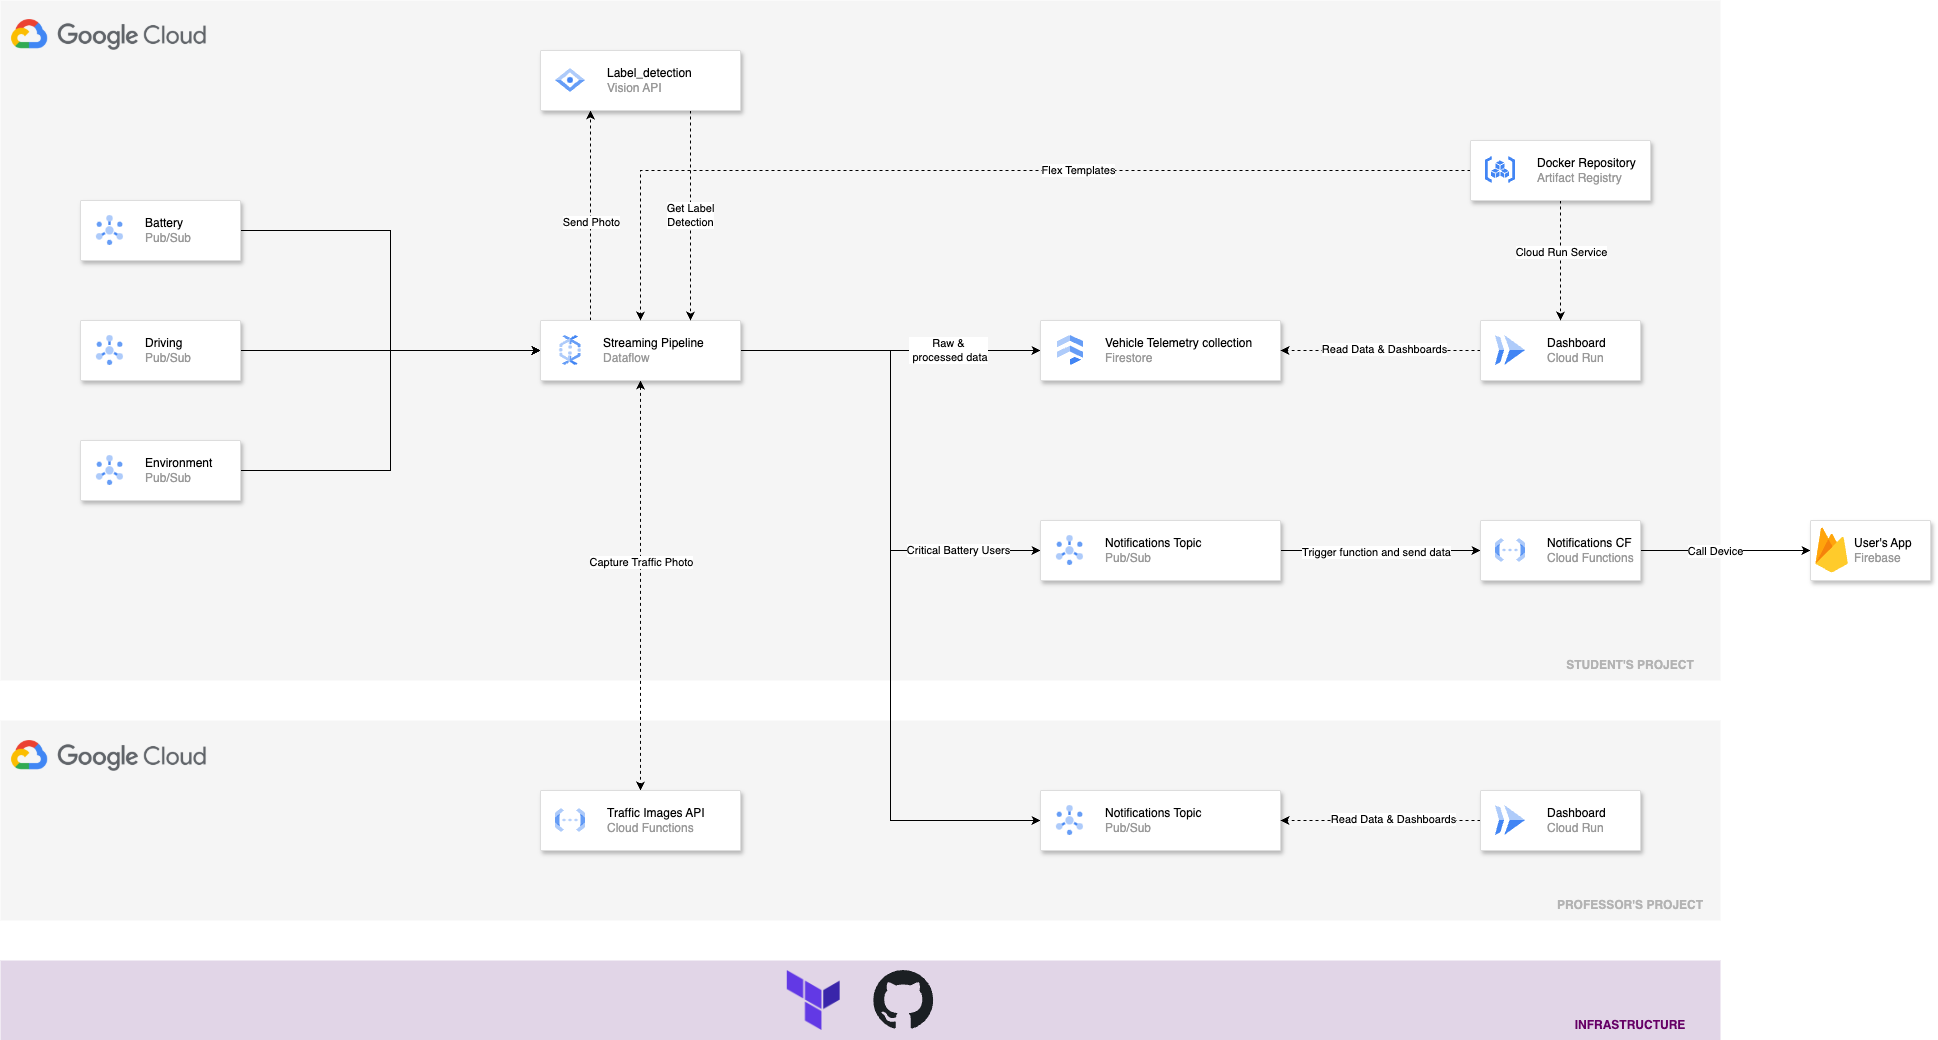
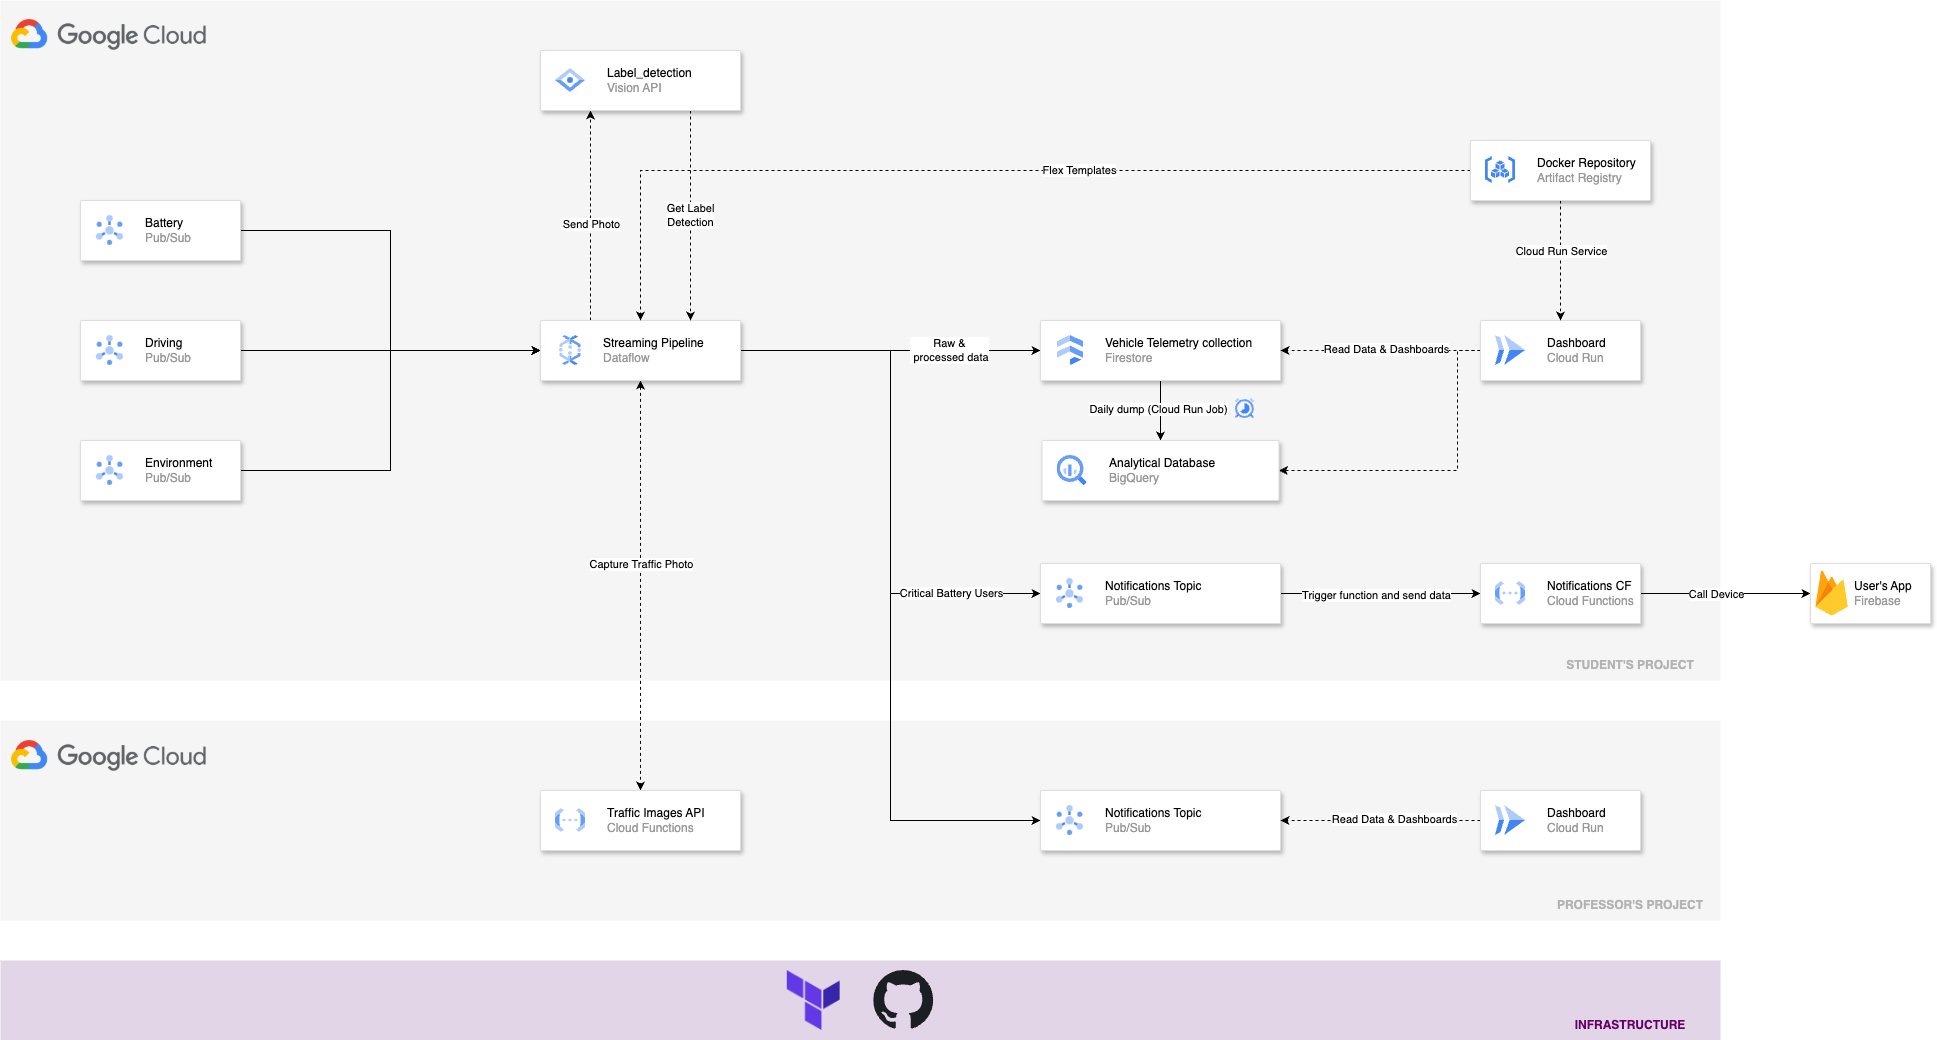
[CHANGED] Upload new resources

diff --git a/02_Code/02_CloudRun/01_Job/main.py b/02_Code/02_CloudRun/01_Job/main.py
@@ -1,0 +1,104 @@
+""" 
+Script: Cloud Run Job
+
+Description: Cloud Run Job to execute data dumps from Firestore to BigQuery.
+
+EDEM. Master Big Data & Cloud 2024/2025
+Professor: Javi Briones
+"""
+
+""" Import Libraries """
+
+from google.cloud import firestore
+from google.cloud import bigquery
+import logging
+import json
+import os
+
+# Configure clients
+firestore_client = firestore.Client()
+bigquery_client = bigquery.Client()
+
+# Environment Variables
+FIRESTORE_COLLECTION = os.getenv('FIRESTORE_COLLECTION')
+BIGQUERY_DATASET = os.getenv('BIGQUERY_DATASET')
+BIGQUERY_TABLE = os.getenv('BIGQUERY_TABLE')
+
+""" Code """
+
+def get_all_documents_with_subcollections(collection_name: str):
+
+    """
+    Retrieves all documents from a Firestore collection along with their nested subcollections.
+    
+    Parameters:
+        collection_name (str): The name of the Firestore collection to retrieve documents from.
+
+    Returns:
+        list: A list of dictionaries containing document data including vehicle_id, event name,
+            timestamp, and payload (JSON string format).
+    """
+
+    collection_ref = firestore_client.collection(collection_name)
+    documents = collection_ref.list_documents()
+    
+    data = []
+
+    for doc in documents:
+        vehicle_id = doc.id  
+
+        # Retrieve subcollections
+        subcollections = doc.collections()
+        for subcollection in subcollections:
+            subcollection_name = subcollection.id 
+            sub_docs = subcollection.stream()
+
+            for sub_doc in sub_docs:
+                doc_dict = {} 
+                sub_doc_dict = sub_doc.to_dict()
+
+                # Build the output format
+                doc_dict["vehicle_id"] = vehicle_id
+                doc_dict["event"] = subcollection_name
+                doc_dict["timestamp"] = sub_doc.id
+                doc_dict["payload"] = json.dumps(sub_doc_dict) 
+
+                # Add row to dataset
+                data.append(doc_dict)
+    
+    return data
+
+def upload_to_bigquery(data: list):
+
+    """
+    Uploads the data to BigQuery in JSON format.
+    
+    Parameters:
+        data (list): A list of dictionaries containing the data to be uploaded to BigQuery.
+    
+    Returns:
+        None
+    """
+
+    table_ref = bigquery_client.dataset(BIGQUERY_DATASET).table(BIGQUERY_TABLE)
+
+    errors = bigquery_client.insert_rows_json(table_ref, data)
+
+    if errors:
+        logging.error(" Error inserting into BigQuery:", errors)
+    else:
+        logging.info("Data successfully inserted into BigQuery.")
+
+if __name__ == "__main__":
+
+    # Set Logs
+    logging.getLogger().setLevel(logging.INFO)
+    
+    # Retrieve data from Firestore
+    documents = get_all_documents_with_subcollections(FIRESTORE_COLLECTION)
+
+    if documents:
+        # Upload to BigQuery
+        upload_to_bigquery(documents)
+    else:
+        logging.warning("No data available to upload to BigQuery.")

diff --git a/02_Code/edem_data_generator.py b/02_Code/edem_data_generator.py
@@ -95,7 +95,7 @@ def generate_battery_data(
         data.append({
             "vehicle_id": vehicle_id,
             "timestamp": timestamp.strftime("%Y-%m-%dT%H:%M:%SZ"),
-            "battery_level": round(battery_level, 2),
+            "battery_level": round(battery_level),
             "event_type": event_type
         })
 

diff --git a/02_Code/edem_dataflow_pipeline.py b/02_Code/edem_dataflow_pipeline.py
@@ -47,7 +47,7 @@ beam.options.pipeline_options.PipelineOptions.allow_non_parallel_instruction_out
 DataflowRunner.__test__ = False
 
 """ Code: Helpful functions """
-def ParsePubSubMessage(message):
+def ParsePubSubMessage(message:):
 
     """
     Decodes messages from Pub/Sub for further transformation.

diff --git a/01_Notebooks/streaming_generator.py b/01_Notebooks/streaming_generator.py
@@ -75,7 +75,7 @@ def run_generator(project_id: str, topic_name: str):
 
         pubsub_class.publishMessages({"temp": temp})
 
-        time.sleep(10)
+        time.sleep(5)
 
 if __name__ == "__main__":
     

diff --git a/README.md b/README.md
@@ -55,7 +55,7 @@ gcloud services enable logging.googleapis.com
 gcloud services enable artifactregistry.googleapis.com
 gcloud services enable eventarc.googleapis.com
 gcloud services enable firestore.googleapis.com
-
+gcloud services enable secretmanager.googleapis.com
 ```
 
 - Create a Python environment using Anaconda, selecting **Python 3.10 or 3.11** as the version.
@@ -86,9 +86,9 @@ Go to the [Google Cloud Firestore Console](https://console.cloud.google.com/fire
 
 ## Google Cloud Artifact Registry
 
-Go to the [Google Cloud Firestore Console](https://console.cloud.google.com/firestore) and create a database **(default) in native mode**. This will allow us to store all the data sent by the different systems.
+Go back to the terminal and navigate to the [Cloud Run](/02_Code/02_CloudRun/00_Service/) folder. Now, we are going to deploy a Cloud Run service with the Docker image of Grafana & a Cloud Run Job for dumping data from Firestore to BigQuery on a daily basis.
 
-Go back to the terminal and navigate to the [Cloud Run](02_Code/04_CloudRun) folder. Now, we are going to deploy a Cloud Run service with the Docker image of Grafana.
+#### Cloud Run Service
 
 - Build the Docker Image.
 
@@ -110,7 +110,43 @@ docker tag grafana-cloud-run <REGION_ID>-docker.pkg.dev/<PROJECT_ID>/<ARTIFACT_R
 docker push <REGION_ID>-docker.pkg.dev/<PROJECT_ID>/<ARTIFACT_REPOSITORY>/grafana-cloud-run:<TAG>
 ```
 
+#### Cloud Run Job
+
+Repeat the same commands executed above, but now specifying a [different image](/02_Code/02_CloudRun/01_Job/) name for the Cloud Run job and linux/amd64.
+
+- Build the Docker Image.
+
+```
+docker build --platform linux/amd64 -t run-job .
+```
+
+- Tag the Docker Image.
+
+```
+docker tag run-job <REGION_ID>-docker.pkg.dev/<PROJECT_ID>/<ARTIFACT_REPOSITORY>/run-job:<TAG>
+```
+
+- Push the image to Artifact Registry.
+
+```
+docker push <REGION_ID>-docker.pkg.dev/<PROJECT_ID>/<ARTIFACT_REPOSITORY>/run-job:<TAG>
+```
+
+## BigQuery
+
+- Run the following command from the terminal or Cloud Shell to create a table in BigQuery **with the provided schema** in this [folder](/02_Code/03_BigQuery).
+
+```
+cd /02_Code/03_BigQuery
+
+bq mk --table <YOUR_PROJECT_ID>:<YOUR_DATASET_NAME>.<YOUR_TABLE_NAME> schema.json
+```
+
+- Verify that the table has been created successfully.
+
 ## Google Cloud Run
+
+#### A. Cloud Run Service
 
 Go to the [Cloud Run Console](https://console.cloud.google.com/run) and click on **Create Service**:
 
@@ -124,7 +160,22 @@ Go to the [Cloud Run Console](https://console.cloud.google.com/run) and click on
     - Click on **Data Sources**.
     - Install the **Firestore** plugin.
     - Enter the required connection details.
-    - Once the connection is established, navigate to the Explore or Dashboard tab to create charts that effectively represent business metrics using [FireSQL](https://firebaseopensource.com/projects/jsayol/firesql/).
+    - Once the connection is established, navigate to the Explore or Dashboard tab to create charts that effectively represent business metrics using [FireQL](https://github.com/pgollangi/FireQL).
+
+#### B. Cloud Run Job
+The purpose of this Cloud Run Job is to execute a data dump from Firestore to BigQuery once a day, allowing the analytics team to analyze the data.
+
+- Once the docker image is already pushed to Artifact Registry, go to the Cloud Run console (https://console.cloud.google.com/run)
+- Select **Deploy Container** and click on **Job**.
+- Choose the **previously built Docker image**, as well as the region.
+- Set the following environment variables in the *Variables & Secrets* tab:
+
+```
+FIRESTORE_COLLECTION = <YOUR_FIRESTORE_COLLECTION>
+BIGQUERY_DATASET = <YOUR_BIGQUERY_DATASET>
+BIGQUERY_TABLE = <YOUR_BIGQUERY_TABLE>
+```
+- Click on **Create**.
 
 ## Google Cloud Run Functions
 
@@ -140,10 +191,13 @@ Go to the [Cloud Run Function Console](https://console.cloud.google.com/function
 
 - Click on Next.
 
-- Select **Python 3.12** as Runtime.
+- Upload the ZIP file located in the [folder](/02_Code/01_CloudFunctions/)
+
+- Select **Python 3.10** as Runtime.
+
+- Type **get_pubsub_message** as Entry point.
 
 - **Deploy** your Function. We will simply simulate the output by handling the push notification process since we do not have a developer app to link our architecture to Firebase.
-
 
 ## Run Dataflow
 
@@ -215,7 +269,6 @@ Results for image:
   Label: Travel, Score: 0.7682755589485168
 ```
 
-
 ## Dataflow Flex Templates
 
 - Go to the [Artifact Registry Console](https://console.cloud.google.com/artifacts) and create a repository with the default values. Alternativaly, it might be created using cli:
@@ -247,6 +300,29 @@ gcloud dataflow flex-template run "<YOUR_DATAFLOW_JOB_NAME>" \
  --region=<YOUR_REGION_ID> \
  --max-workers=1
 ```
+
+## CI/CD: Cloud Build
+
+- Go to the [Cloud Build console](https://console.cloud.google.com/cloud-build)
+- In the left panel, select *Repositories*.
+- In the *2nd Gen* tab, click on **Link Repository**.
+- In the *Connection* dropdown, click on **Create host connection** and link your GitHub account:
+    - Select only the repositories associated with your account that you want to link.
+    - Click install.
+    - Verify that the connection is created successfully.
+
+- In the left panel, select *Triggers*.
+    - Give it a name and select a specific region.
+    - The event will be **Push to a branch**.
+    - In *Repository*, connect to a new repository and s**elect the repository previously chosen in the connection**.
+    - Click on **Connect**.
+    - Select the **branch** this trigger will listen for changes on.
+    - As configuration, select **Cloud Build configuration file (yaml or json)**.
+    - For location, add the path to your [build.yml](/02_Code/04_CICD/build.yml) file. Alternatively, you can select inline and copy and paste the content of the file.
+    - Select a service account with sufficient permissions to execute a Dataflow job (*If you do not specify a service account, it will use the default Compute Engine service account*)
+    - Click on **Create**.
+
+- Once the trigger is created, each new push to the specified branch will trigger the actions specified in the build file, following the steps we set.
 
 ## Clean Up
 
@@ -287,6 +363,12 @@ gcloud functions delete <YOUR_CLOUD_FUNCTION_NAME> --region <YOUR_REGION_ID>
 gcloud run services delete <YOUR_CLOUR_RUN_SERVICE_NAME> --platform=managed --region=<YOUR_REGION_ID>
 ```
 
+- Remove your Cloud Run Job
+
+```
+gcloud run jobs delete <YOUR_CLOUD_RUN_JOB_NAME> --region=<YOUR_REGION_ID>
+```
+
 - Disable the required Google APIs
 
 ```
@@ -300,6 +382,7 @@ gcloud services disable logging.googleapis.com
 gcloud services disable artifactregistry.googleapis.com
 gcloud services disable eventarc.googleapis.com
 gcloud services disable firestore.googleapis.com
+gcloud services disable secretmanager.googleapis.com
 
 ```
 
@@ -322,12 +405,4 @@ gcloud services disable firestore.googleapis.com
 - Firestore
     - https://firebase.google.com/docs/firestore/quickstart#python
 
-- Cloud Functions
-    - https://cloud.google.com/functions/docs/console-quickstart
-
-- Artifact Registry
-    - https://cloud.google.com/artifact-registry/docs/repositories/create-repos
-
-- Cloud Run
-    - https://cloud.google.com/run/docs/deploying
-    - https://cloud.google.com/sql/docs/postgres/connect-run
+- [Dataflow Practical Exercises Guide](https://cloud.google.com/dataflow/docs/guides/)
